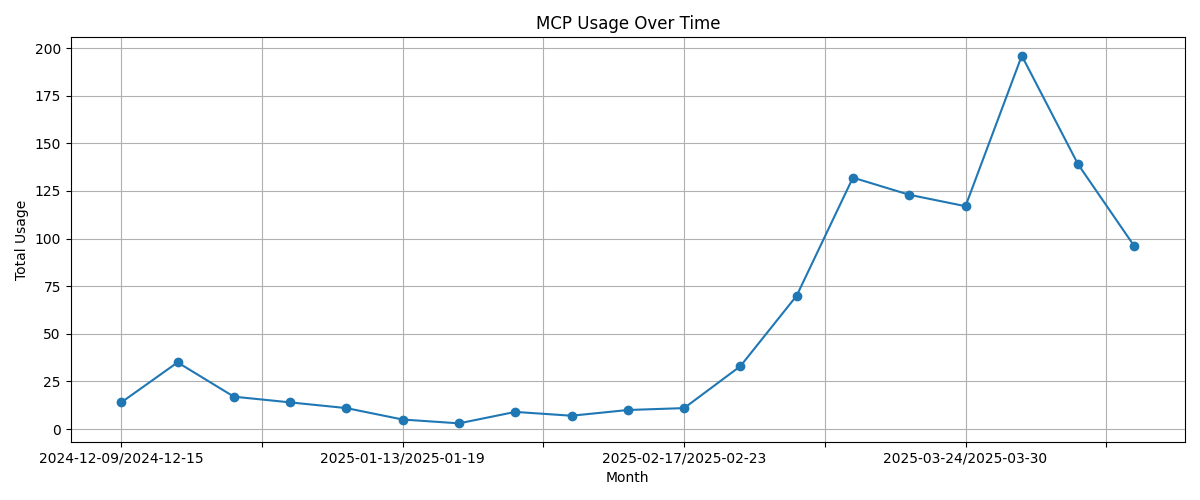
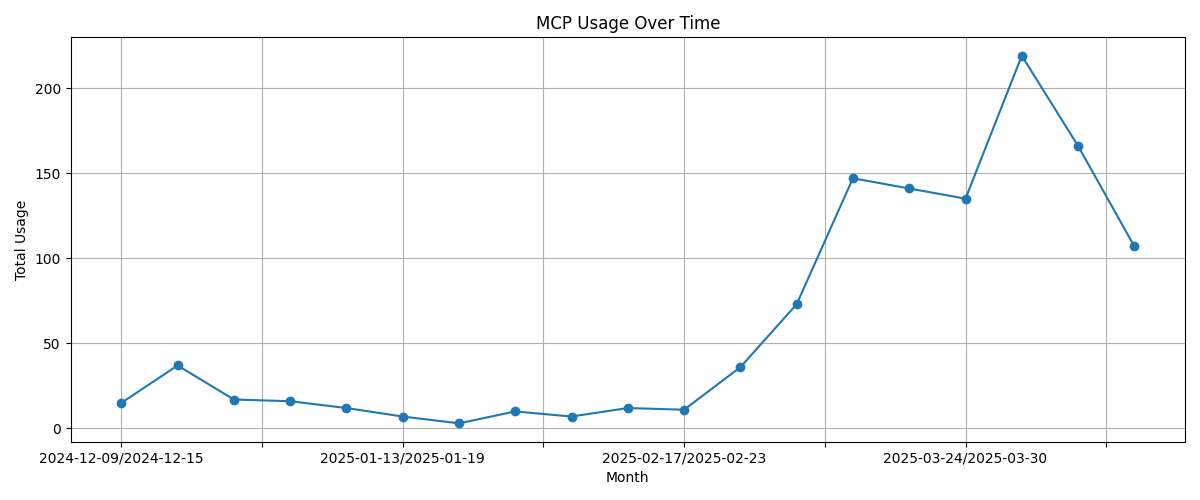
fixes

diff --git a/analysis.py b/analysis.py
@@ -7,14 +7,17 @@ from sentence_transformers import SentenceTransformer
 from sklearn.cluster import KMeans
 
 umap_model = umap.UMAP(n_components=2, random_state=42)
-# 1. Load and flatten JSON
+# 1. Load and flatten JSONtryhjukil;'
+ 
 with open('translated_details.json', encoding='utf-8') as f:
     data = json.load(f)
 
 records = []
+index = 0
 for mcp in data:
     for tool in mcp.get("tools", []):
         records.append({
+            "MCP_index": index,
             "MCP_name": mcp.get("MCP_name"),
             "MCP_description": mcp.get("MCP_description"),
             "MCP_usage": mcp.get("MCP_usage"),
@@ -24,9 +27,9 @@ for mcp in data:
             "tool_id": tool.get("id"),
             "tool_description": tool.get("description")
         })
+    index += 1
 
 df = pd.DataFrame(records)
-
 df['published_date'] = pd.to_datetime(df['published_date'], errors='coerce')
 df['year'] = df['published_date'].dt.year
 df['week'] = df['published_date'].dt.to_period('W')

diff --git a/analysis/weekly.py b/analysis/weekly.py
@@ -2,8 +2,8 @@ import pandas as pd
 import matplotlib.pyplot as plt
 
 df = pd.read_csv("categorized_mcp_tools.csv")
-df = df[['MCP_name', 'week']]
-df = df.groupby("MCP_name").first()
+df = df[['MCP_index', 'week']]
+df = df.groupby("MCP_index").first()
 trend = df['week'].value_counts().sort_index()
 plt.figure(figsize=(12, 5))
 trend.plot(marker='o')
@@ -14,5 +14,5 @@ plt.grid(True)
 plt.tight_layout()
 plt.savefig("usage_trend.png")
 plt.show()
-
+print(trend)
 
